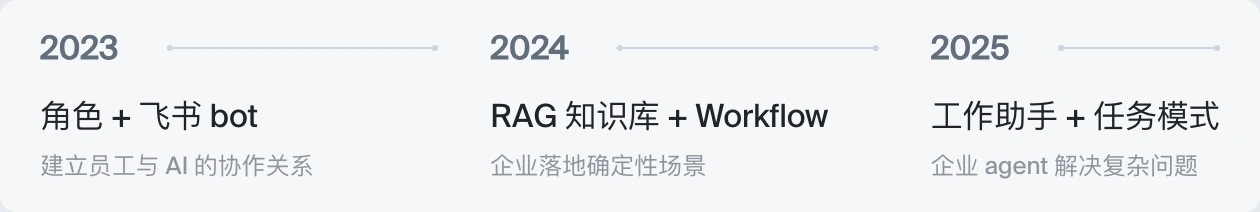
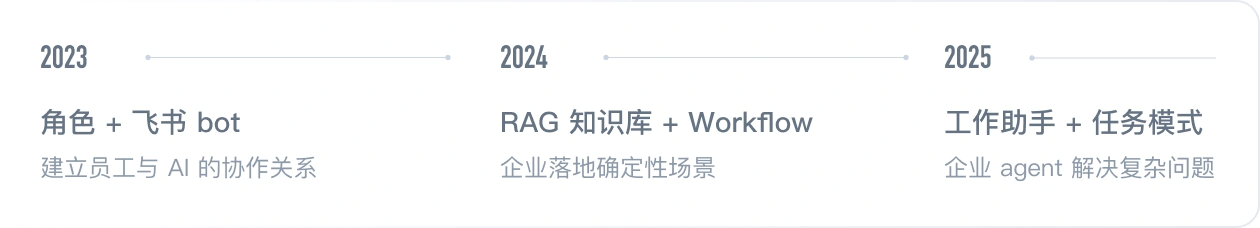
fix: use Figma-exported 2x crop for Aily timeline block (630x114, r12)

diff --git a/src/pages/AilyProjectPage.tsx b/src/pages/AilyProjectPage.tsx
@@ -30,7 +30,7 @@ export default function AilyProjectPage() {
         <div className="aily-background-content">
           <h2 className="aily-background-title" id="aily-background-title">项目背景</h2>
           <div className="aily-background-timeline">
-            <Image src={asset('media/aily-background-timeline.webp')} alt="Aily 产品重心演进：2023 角色 + 飞书 bot，建立员工与 AI 的协作关系；2024 RAG 知识库 + Workflow，企业落地确定性场景；2025 工作助手 + 任务模式，企业 agent 解决复杂问题" width={630} height={106} loading="lazy"/>
+            <Image src={asset('media/aily-background-timeline.webp')} alt="Aily 产品重心演进：2023 角色 + 飞书 bot，建立员工与 AI 的协作关系；2024 RAG 知识库 + Workflow，企业落地确定性场景；2025 工作助手 + 任务模式，企业 agent 解决复杂问题" width={630} height={114} loading="lazy"/>
           </div>
           <p className="aily-background-text">{AILY_BACKGROUND_LINES.map(line => <span className="aily-background-line" key={line}>{line}</span>)}</p>
           <h2 className="aily-background-title is-scope" id="aily-scope-title">我的范围</h2>

diff --git a/src/portfolio.css b/src/portfolio.css
@@ -16,9 +16,9 @@
 .aily-background-content{height:100%;padding:8rem 4.4rem 0 5rem;display:flex;flex-direction:column;align-items:flex-start;box-sizing:border-box}
 .aily-background-title{margin:0;font-size:1.6rem;line-height:2.4rem;font-weight:600;color:#000;letter-spacing:0}
 .aily-background-title.is-scope{margin-top:4.8rem}
-.aily-background-timeline{width:100%;margin:2.7rem 0 0;border-radius:.8rem;overflow:hidden;background:#f6f7f9;line-height:0}
+.aily-background-timeline{width:100%;margin:2.1rem 0 0;line-height:0}
 .aily-background-timeline>img{display:block;width:100%;height:auto}
-.aily-background-text{margin:2.3rem 0 0;font-size:1.6rem;line-height:2.4rem;font-weight:400;color:#1f2329;letter-spacing:0}
+.aily-background-text{margin:2.1rem 0 0;font-size:1.6rem;line-height:2.4rem;font-weight:400;color:#1f2329;letter-spacing:0}
 .aily-background-text.is-scope{color:#000;margin-top:2rem}
 .aily-background-line{display:block;white-space:nowrap}
 @media(max-width:768px){.aily-background-line{display:inline;white-space:normal}}
